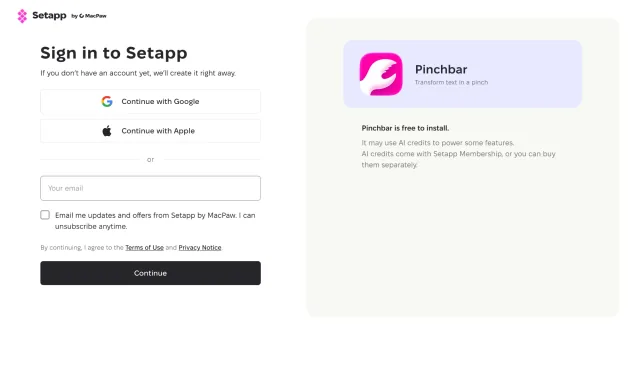
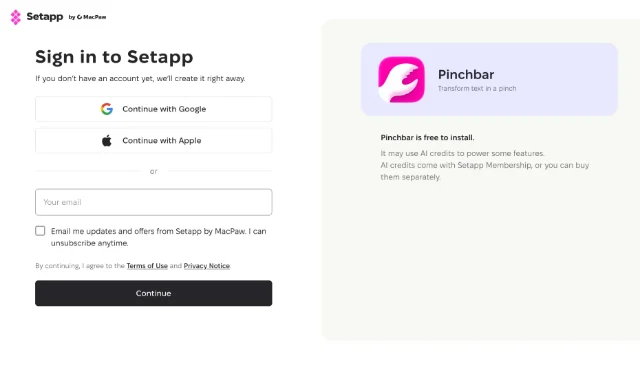
Round 8: trial steps as rounded cards with padded, bottom-flush shots; credits callout top-up line

diff --git a/index.html b/index.html
@@ -29,7 +29,7 @@
   <link rel="manifest" href="site.webmanifest">
 
   <link rel="preload" href="assets/fonts/plus-jakarta-sans.woff2" as="font" type="font/woff2" crossorigin>
-  <link rel="stylesheet" href="assets/styles.css?v=202610052330">
+  <link rel="stylesheet" href="assets/styles.css?v=202610060010">
   <script>document.documentElement.classList.add('js');</script>
 
   <script type="application/ld+json">
@@ -130,7 +130,7 @@
               <li class="co co--l" data-for=".pb__cards" style="--y: 25%"><span class="co__n mono">1</span><span class="co__t">Your copy history</span></li>
               <li class="co co--r" data-for=".pb__acts" style="--y: 47%"><span class="co__n mono">2</span><span class="co__t">10 actions on <span class="nw"><kbd>⌃1</kbd>–<kbd>⌃0</kbd></span><small>Fix, Shorten, Translate…</small></span></li>
               <li class="co co--l" data-for=".pb__out" style="--y: 68%"><span class="co__n mono">3</span><span class="co__t">Result, ready to copy</span></li>
-              <li class="co co--r" data-for=".pb__foot" style="--y: 96%"><span class="co__n mono">4</span><span class="co__t">Credits left</span></li>
+              <li class="co co--r" data-for=".pb__foot" style="--y: 96%"><span class="co__n mono">4</span><span class="co__t">Credits left<small>Top up anytime</small></span></li>
             </ol>
           </div>
           <button class="pb-play" type="button" aria-label="Pause animation" hidden><svg viewBox="0 0 16 16" aria-hidden="true"><path class="i-pause" d="M5.5 3.5v9M10.5 3.5v9"/><path class="i-play" d="M5 3.2v9.6L12.8 8z"/></svg></button>
@@ -477,22 +477,28 @@
         </header>
         <ol class="trial">
           <li class="trial__card reveal">
-            <figure class="trial__shot"><img src="assets/shots/setapp-signin-640.webp" srcset="assets/shots/setapp-signin-640.webp 640w, assets/shots/setapp-signin-1200.webp 1200w" sizes="(min-width: 1024px) 380px, 90vw" width="640" height="392" loading="lazy" decoding="async" alt="The Setapp sign-in page showing PinchBar, Transform text in a pinch."></figure>
-            <p class="mono trial__n">Step 1</p>
-            <h3>Sign in or create an account</h3>
-            <p>Use Google, Apple or your email. New accounts are created on the spot.</p>
+            <figure class="trial__shot"><img src="assets/shots/setapp-signin-640.webp" srcset="assets/shots/setapp-signin-640.webp 640w, assets/shots/setapp-signin-1200.webp 1200w" sizes="(min-width: 768px) 30vw, 90vw" width="640" height="378" loading="lazy" decoding="async" alt="The Setapp sign-in page showing PinchBar, Transform text in a pinch."></figure>
+            <div class="trial__body">
+              <p class="trial__n" aria-hidden="true">1</p>
+              <h3><span class="sr-only">Step 1: </span>Sign in or create an account</h3>
+              <p>Use Google, Apple or your email. New accounts are created on the spot.</p>
+            </div>
           </li>
           <li class="trial__card reveal">
-            <figure class="trial__shot"><img src="assets/shots/setapp-store-640.webp" srcset="assets/shots/setapp-store-640.webp 640w, assets/shots/setapp-store-1200.webp 1200w" sizes="(min-width: 1024px) 380px, 90vw" width="640" height="397" loading="lazy" decoding="async" alt="PinchBar's page in the Setapp app."></figure>
-            <p class="mono trial__n">Step 2</p>
-            <h3>Install Setapp and PinchBar</h3>
-            <p>Setapp downloads to your Mac and installs PinchBar for you.</p>
+            <figure class="trial__shot"><img src="assets/shots/setapp-store-640.webp" srcset="assets/shots/setapp-store-640.webp 640w, assets/shots/setapp-store-1200.webp 1200w" sizes="(min-width: 768px) 30vw, 90vw" width="640" height="373" loading="lazy" decoding="async" alt="PinchBar's page in the Setapp app."></figure>
+            <div class="trial__body">
+              <p class="trial__n" aria-hidden="true">2</p>
+              <h3><span class="sr-only">Step 2: </span>Install Setapp and PinchBar</h3>
+              <p>Setapp downloads to your Mac and installs PinchBar for you.</p>
+            </div>
           </li>
           <li class="trial__card reveal">
-            <figure class="trial__shot trial__shot--dark"><img src="assets/shots/panel-top-460.webp" srcset="assets/shots/panel-top-460.webp 460w, assets/shots/panel-top-920.webp 920w" sizes="(min-width: 1024px) 300px, 70vw" width="460" height="280" loading="lazy" decoding="async" alt="The top of the PinchBar panel with recent clipboard history."></figure>
-            <p class="mono trial__n">Step 3</p>
-            <h3>Open PinchBar from the menu bar</h3>
-            <p>Copy something, press <kbd>⌃</kbd><kbd>C</kbd> and run your first action.</p>
+            <figure class="trial__shot"><img src="assets/shots/panel-top-460.webp" srcset="assets/shots/panel-top-460.webp 460w, assets/shots/panel-top-920.webp 920w" sizes="(min-width: 768px) 30vw, 90vw" width="460" height="280" loading="lazy" decoding="async" alt="The top of the PinchBar panel with recent clipboard history."></figure>
+            <div class="trial__body">
+              <p class="trial__n" aria-hidden="true">3</p>
+              <h3><span class="sr-only">Step 3: </span>Open PinchBar from the menu bar</h3>
+              <p>Copy something, press <kbd>⌃</kbd><kbd>C</kbd> and run your first action.</p>
+            </div>
           </li>
         </ol>
       </div>
@@ -595,6 +601,6 @@
     </div>
   </footer>
 
-  <script src="assets/main.js?v=202610052330" defer></script>
+  <script src="assets/main.js?v=202610060010" defer></script>
 </body>
 </html>

diff --git a/assets/styles.css b/assets/styles.css
@@ -522,14 +522,14 @@ body.menu-open .nav { backdrop-filter: none; -webkit-backdrop-filter: none; back
 @media (min-width: 1024px) { .get { grid-template-columns: 1fr 1.15fr; } }
 
 /* ---------- setapp steps ---------- */
-.trial { display: grid; gap: 24px; }
-.trial__card { display: flex; flex-direction: column; gap: 10px; }
-.trial__shot { aspect-ratio: 16 / 10; border-radius: var(--r-md); overflow: hidden; border: 1px solid var(--rule); background: #fff; margin-bottom: 14px; display: grid; place-items: center; }
-.trial__shot img { width: 100%; height: 100%; object-fit: cover; object-position: top left; }
-.trial__shot--dark { background: linear-gradient(160deg, var(--blush-1), var(--blush-2)); padding: 18px 18px 0; place-items: end center; }
-.trial__shot--dark img { object-fit: contain; object-position: bottom center; border-radius: 12px 12px 0 0; }
-.trial__n { font-size: var(--fs-mono); text-transform: uppercase; letter-spacing: .08em; color: var(--accent); }
-.trial__card h3 { font-weight: 600; font-size: 1.3125rem; line-height: 1.2; letter-spacing: -.02em; }
+.trial { display: grid; gap: 20px; }
+.trial__card { display: flex; flex-direction: column; background: #fff; border: 1px solid var(--rule); border-radius: var(--r-lg); overflow: hidden; }
+/* Equal % padding on top/left/right (all % paddings resolve against width); shot sits on the bottom edge and is clipped. */
+.trial__shot { margin: 0; padding: 7% 7% 0; background: linear-gradient(160deg, var(--blush-1), var(--blush-2)); }
+.trial__shot img { display: block; width: 100%; height: auto; aspect-ratio: 2 / 1; object-fit: cover; object-position: top center; border-radius: 10px 10px 0 0; box-shadow: 0 0 0 1px rgba(13, 13, 13, .06), 0 10px 30px -12px rgba(80, 30, 60, .35); }
+.trial__body { display: flex; flex-direction: column; gap: 10px; padding: 22px 24px 26px; }
+.trial__n { display: grid; place-items: center; width: 32px; height: 32px; margin-bottom: 4px; border-radius: 50%; background: var(--ink); color: #fff; font-weight: 600; font-size: .9375rem; line-height: 1; font-variant-numeric: tabular-nums; }
+.trial__card h3 { font-weight: 700; font-size: 1.3125rem; line-height: 1.2; letter-spacing: -.02em; }
 .trial__card p:not(.trial__n) { color: #4a4a4a; }
 @media (min-width: 768px) { .trial { grid-template-columns: repeat(3, 1fr); } }
 
@@ -609,3 +609,5 @@ body.menu-open .nav { backdrop-filter: none; -webkit-backdrop-filter: none; back
   .js img[loading="lazy"] { opacity: 1; }
   .js .menu, .js .menu__links a, .js .menu .btn { opacity: 1; transform: none; }
 }
+
+.sr-only { position: absolute; width: 1px; height: 1px; padding: 0; margin: -1px; overflow: hidden; clip: rect(0 0 0 0); white-space: nowrap; border: 0; }

diff --git a/README.md b/README.md
@@ -36,11 +36,12 @@ Type is sans-serif only: Plus Jakarta Sans for headlines and body, JetBrains Mon
 - `v5-cursor` (tag) — hero cursor no longer jumps on click (position via `translate`, press `scale: .9` around the arrow tip).
 - `v6-actions` (tag) — demo actions on one row (2×2 on phones), step 01 tag adds the bonus credits, the 10 built-in actions listed in Compare, new Custom actions section.
 - `v7-setapp-shots` (tag) — buttons green `#40E56C`; Setapp step 1 and 2 screenshots replaced with the PinchBar sign-in page and PinchBar's page in the Setapp app.
+- `v8-trial-cards` (tag) — "Your free start goes through Setapp." steps restyled as large rounded cards: blush backdrop on every shot with equal top/side padding, shots flush to the bottom and clipped, numbered circles, bold titles; step 1–2 shots re-cropped tight. Hero callout 4 gains "Top up anytime".
 
-## Verification (2026-10-05, re-run for v7-setapp-shots)
+## Verification (2026-10-05, re-run for v8-trial-cards)
 - Full-page screenshots at 360, 768, 1024, 1280 and 1536 in Chromium and WebKit: no horizontal scroll, no console errors, no overflow or clipping in the hero callouts.
 - Menu, demo tabs (incl. arrow keys), action buttons and FAQ clicked through in both engines.
-- Lighthouse mobile (served with gzip via `npx serve`): Performance 100, Accessibility 100, Best Practices 100, SEO 100 (v7-setapp-shots; CLS 0, LCP 1.6 s). Reduced motion checked in both engines. With plain `python3 -m http.server` (no compression) Performance is ~89.
+- Lighthouse mobile (served with gzip via `npx serve`): Performance 100, Accessibility 100, Best Practices 100, SEO 100 (v8-trial-cards; CLS 0, LCP 1.6 s). Reduced motion checked in both engines. With plain `python3 -m http.server` (no compression) Performance is ~89.
 
 ## Screenshots and demo content
 Captured from PinchBar 1.0.16 (Debug build) running in an isolated home folder, so real data was untouched. The UI is dark (the app doesn't follow light mode).
